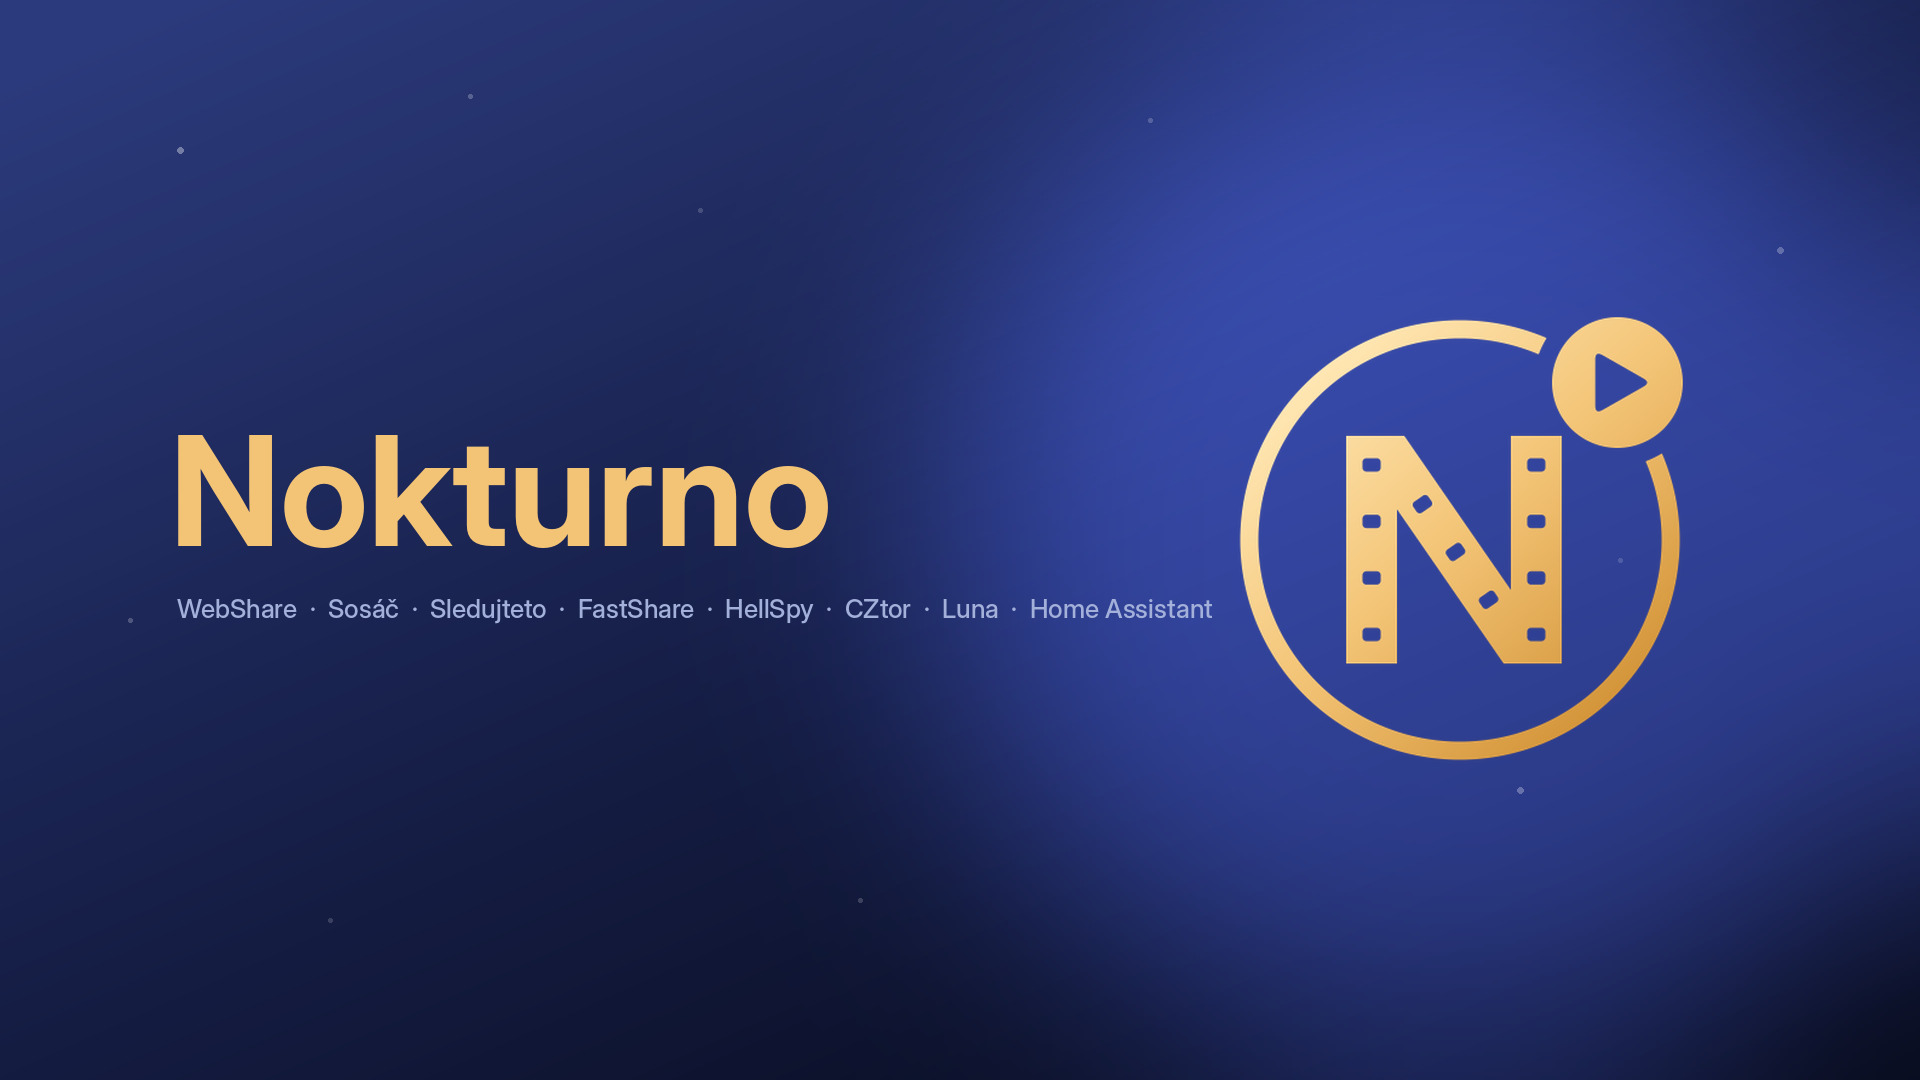
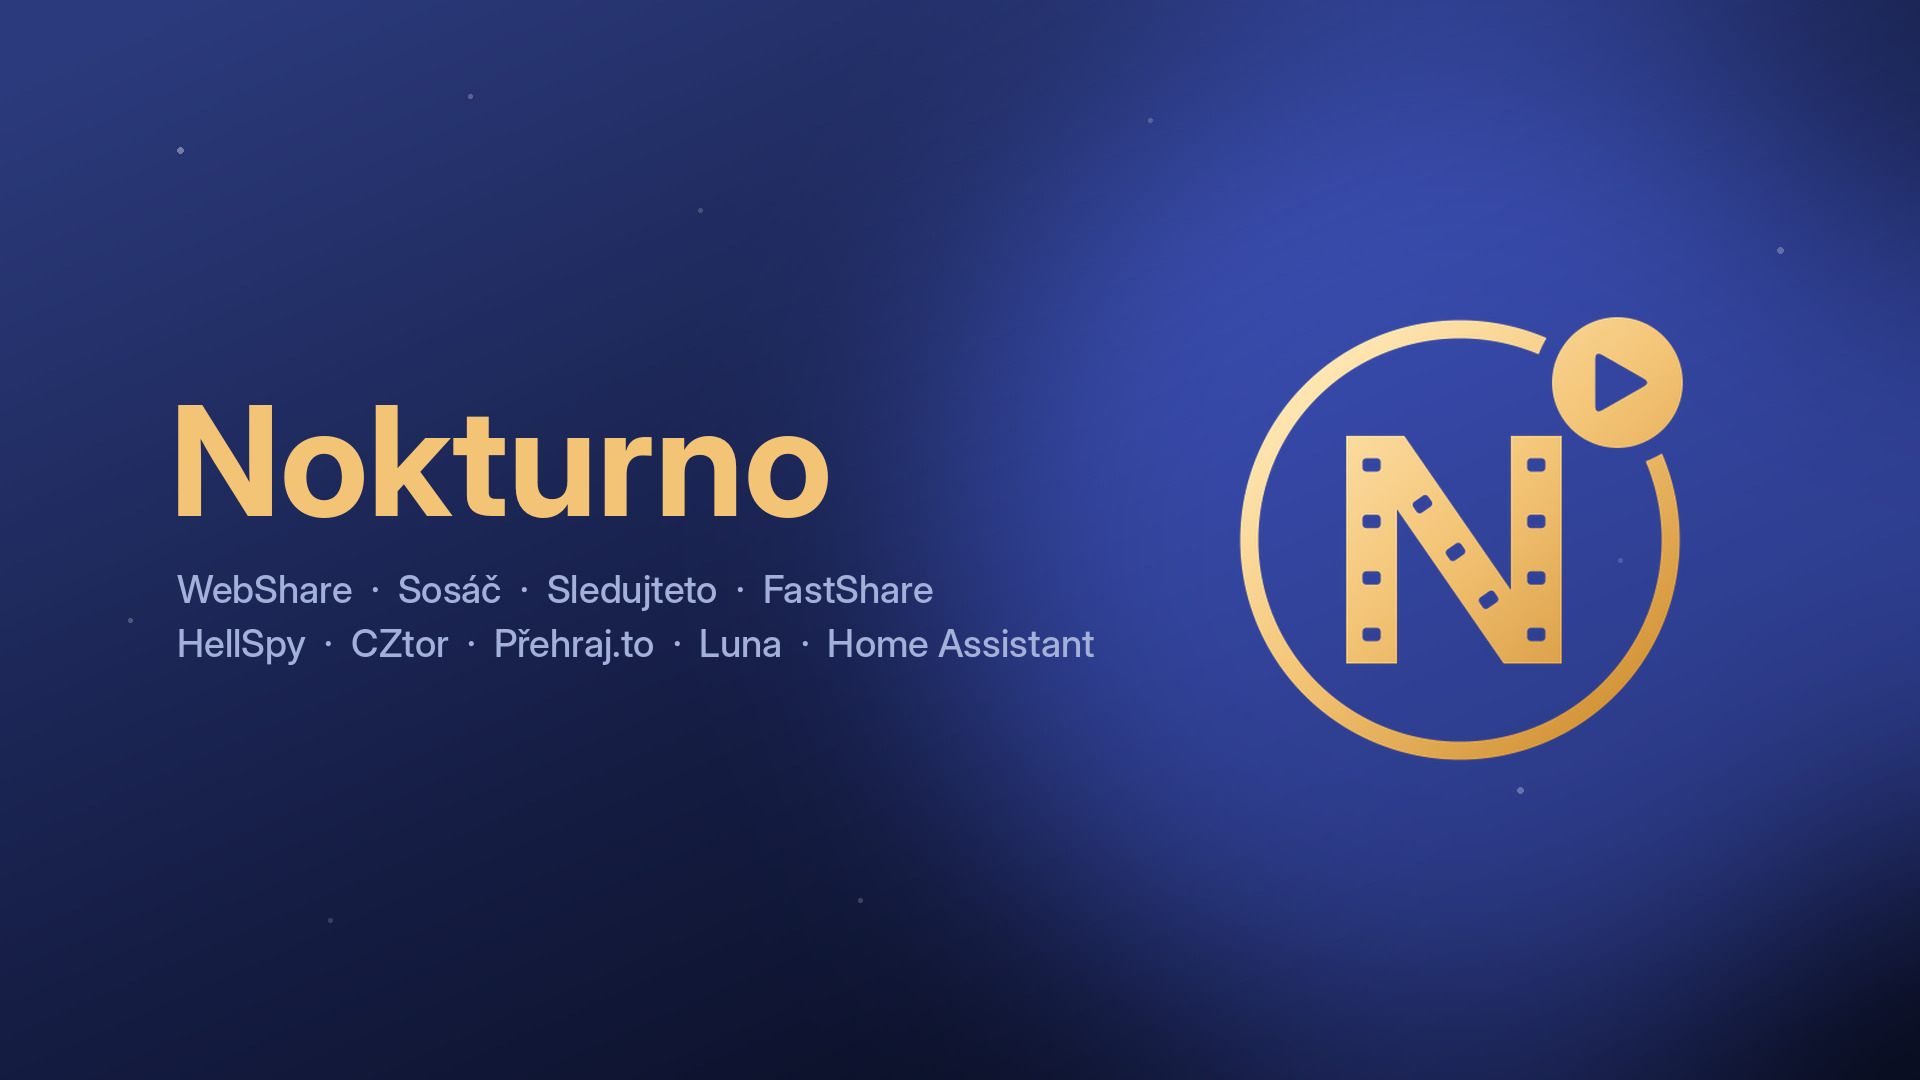
7.0.0~beta3: zdroje na fanartu ve dvou řádcích, obrázek k vydání 7.0
Osm zdrojů se na jeden řádek vešlo jen písmem, které na televizi přes fanart
nikdo nepřečte. Nový obrázek k vydání spojuje Přehraj.to s novinkami řady 6.6
— jde do už zveřejněných příspěvků, kde visí obrázek k 6.6.

Changed region(s): [[0.0938, 0.3667, 0.625, 0.6111]]

diff --git a/tools/make_icon.py b/tools/make_icon.py
@@ -5,6 +5,7 @@
     python3 tools/make_icon.py podpora    # obrázek podpory do README (.github/podpora.png)
     python3 tools/make_icon.py 6.0.0      # obrázek k vydání 6.0.0 s CZtorem (.github/nokturno-6.0.0-cztor.png)
     python3 tools/make_icon.py 6.6.0      # obrázek k vydání 6.6.0 s přehledem novinek (.github/nokturno-6.6.0-novinky.png)
+    python3 tools/make_icon.py 7.0.0      # obrázek k vydání 7.0 s Přehraj.to a novinkami 6.6 (.github/nokturno-7.0.0-prehrajto.png)
 
 Značka je prstenec, v něm „N" s perforacemi filmového pásu a nad ním úplněk
 s vyříznutým play. Kreslí se vektorově (cairosvg) a skládá po vrstvách,
@@ -204,17 +205,21 @@ def make_fanart(path):
     logo = mark("", "url(#gold)", scale=1).resize((620, 620), Image.LANCZOS)
     sky.paste(logo, (1150, 230), logo)
 
-    dr.text((170, 398), "Nokturno", font=font("InterDisplay-Bold.otf", 152), fill=(243, 196, 118))
-    # Podtitulek se musí vejít vedle značky, proto se písmo zmenšuje, dokud
-    # se řádek nevejde — s přibývajícími zdroji by jinak zajel pod logo.
-    sub = "WebShare  ·  Sosáč  ·  Sledujteto  ·  FastShare  ·  HellSpy  ·  CZtor  ·  Luna  ·  Home Assistant"
-    size = 44
+    dr.text((170, 368), "Nokturno", font=font("InterDisplay-Bold.otf", 152), fill=(243, 196, 118))
+    # Zdroje jsou na dvou řádcích: na jeden se od osmi zdrojů vejdou jen tak
+    # malým písmem, že je na televizi přes fanart nikdo nepřečte. Písmo se pořád
+    # zmenšuje, dokud se delší z řádků nevejde vedle značky.
+    radky = ("WebShare  ·  Sosáč  ·  Sledujteto  ·  FastShare",
+             "HellSpy  ·  CZtor  ·  Přehraj.to  ·  Luna  ·  Home Assistant")
+    size = 46
     while size > 26:
         f = font("InterDisplay-Medium.otf", size)
-        if dr.textlength(sub, font=f) <= 950:
+        if max(dr.textlength(r, font=f) for r in radky) <= 950:
             break
         size -= 2
-    dr.text((177, 592), sub, font=font("InterDisplay-Medium.otf", size), fill=(163, 176, 218))
+    f = font("InterDisplay-Medium.otf", size)
+    for i, radek in enumerate(radky):
+        dr.text((177, 566 + i * (size + 16)), radek, font=f, fill=(163, 176, 218))
     sky.save(path, quality=92, subsampling=0)
 
 
@@ -279,6 +284,50 @@ def make_release_660(path):
         dr.text((112, y), hlavni, font=big, fill=(255, 255, 255))
         dr.text((112 + dr.textlength(hlavni, font=big) + 18, y + 8), doplnek, font=small, fill=dim)
         y += 74
+    sky.save(path)
+
+
+def make_release_700(path):
+    """Obrázek k vydání 7.0: nový zdroj Přehraj.to nahoře jako hlavní zpráva a pod ním
+    novinky řady 6.6 drobněji — jde do týchž příspěvků na Facebooku, kde už visí obrázek
+    k 6.6, takže musí říct obojí naráz: co je úplně nové a co přibylo předtím."""
+    W, H = RELEASE
+    sky = render(f'<rect width="{W}" height="{H}" fill="url(#sky)"/>', W, H, scale=1).convert("RGB")
+    q = 4
+    glow = Image.new("RGB", (W // q, H // q), (0, 0, 0))
+    ImageDraw.Draw(glow).ellipse([c / q for c in (640, -120, 1340, 560)], fill=(32, 42, 96))
+    sky = ImageChops.add(sky, glow.filter(ImageFilter.GaussianBlur(24)).resize((W, H), Image.BICUBIC))
+    dr = ImageDraw.Draw(sky, "RGBA")
+    for x, y, r, o in [(1130, 60, 3, 90), (1010, 40, 2, 60), (1150, 560, 3, 70), (60, 600, 2, 55),
+                       (960, 600, 2, 45), (1170, 320, 2, 60), (40, 40, 2, 50), (800, 30, 2, 42)]:
+        dr.ellipse((x - r, y - r, x + r, y + r), fill=(255, 255, 255, o))
+    logo = mark("", "url(#gold)", scale=1).resize((250, 250), Image.LANCZOS)
+    sky.paste(logo, (905, 40), logo)
+    gold, dim, bila = (243, 196, 118), (163, 176, 218), (255, 255, 255)
+
+    dr.text((70, 42), "Nokturno 7.0", font=font("InterDisplay-Bold.otf", 88), fill=gold)
+    dr.text((74, 150), "Osmý zdroj obsahu", font=font("InterDisplay-Medium.otf", 34), fill=dim)
+    f = font("InterDisplay-Bold.otf", 76)
+    tw = dr.textlength("Přehraj.to", font=f)
+    dr.rounded_rectangle((70, 200, 70 + tw + 70, 310), radius=55, fill=gold)
+    dr.text((105, 208), "Přehraj.to", font=f, fill=(20, 28, 66))
+    dr.text((74 + tw + 110, 232), "funguje i zdarma", font=font("InterDisplay-Medium.otf", 34), fill=bila)
+
+    # Vodorovná linka odděluje novou zprávu od toho, co už v příspěvku stálo.
+    dr.line((74, 344, 1130, 344), fill=(90, 106, 168), width=2)
+    dr.text((74, 360), "A novinky řady 6.6", font=font("InterDisplay-Medium.otf", 32), fill=dim)
+    radky = [("Synchronizace více Kodi", "i bez Home Assistanta"),
+             ("Titulky z OpenSubtitles", "česky a slovensky"),
+             ("Pro Tebe", "a náhodný film či seriál"),
+             ("Přenos nastavení", "do dalšího Kodi kódem"),
+             ("Stav zdrojů v menu", "co nefunguje a proč")]
+    big, small = font("InterDisplay-Bold.otf", 34), font("InterDisplay-Medium.otf", 26)
+    y = 412
+    for hlavni, doplnek in radky:
+        dr.ellipse((76, y + 12, 92, y + 28), fill=gold)
+        dr.text((112, y), hlavni, font=big, fill=bila)
+        dr.text((112 + dr.textlength(hlavni, font=big) + 16, y + 6), doplnek, font=small, fill=dim)
+        y += 42
     sky.save(path)
 
 
@@ -366,6 +415,9 @@ if __name__ == "__main__":
     if sys.argv[1:] == ["6.0.0"]:
         make_release_600(os.path.join(ROOT, ".github", "nokturno-6.0.0-cztor.png"))
         print(".github/nokturno-6.0.0-cztor.png hotovo")
+    elif sys.argv[1:] == ["7.0.0"]:
+        make_release_700(os.path.join(ROOT, ".github", "nokturno-7.0.0-prehrajto.png"))
+        print(".github/nokturno-7.0.0-prehrajto.png hotovo")
     elif sys.argv[1:] == ["6.6.0"]:
         make_release_660(os.path.join(ROOT, ".github", "nokturno-6.6.0-novinky.png"))
         print(".github/nokturno-6.6.0-novinky.png hotovo")
